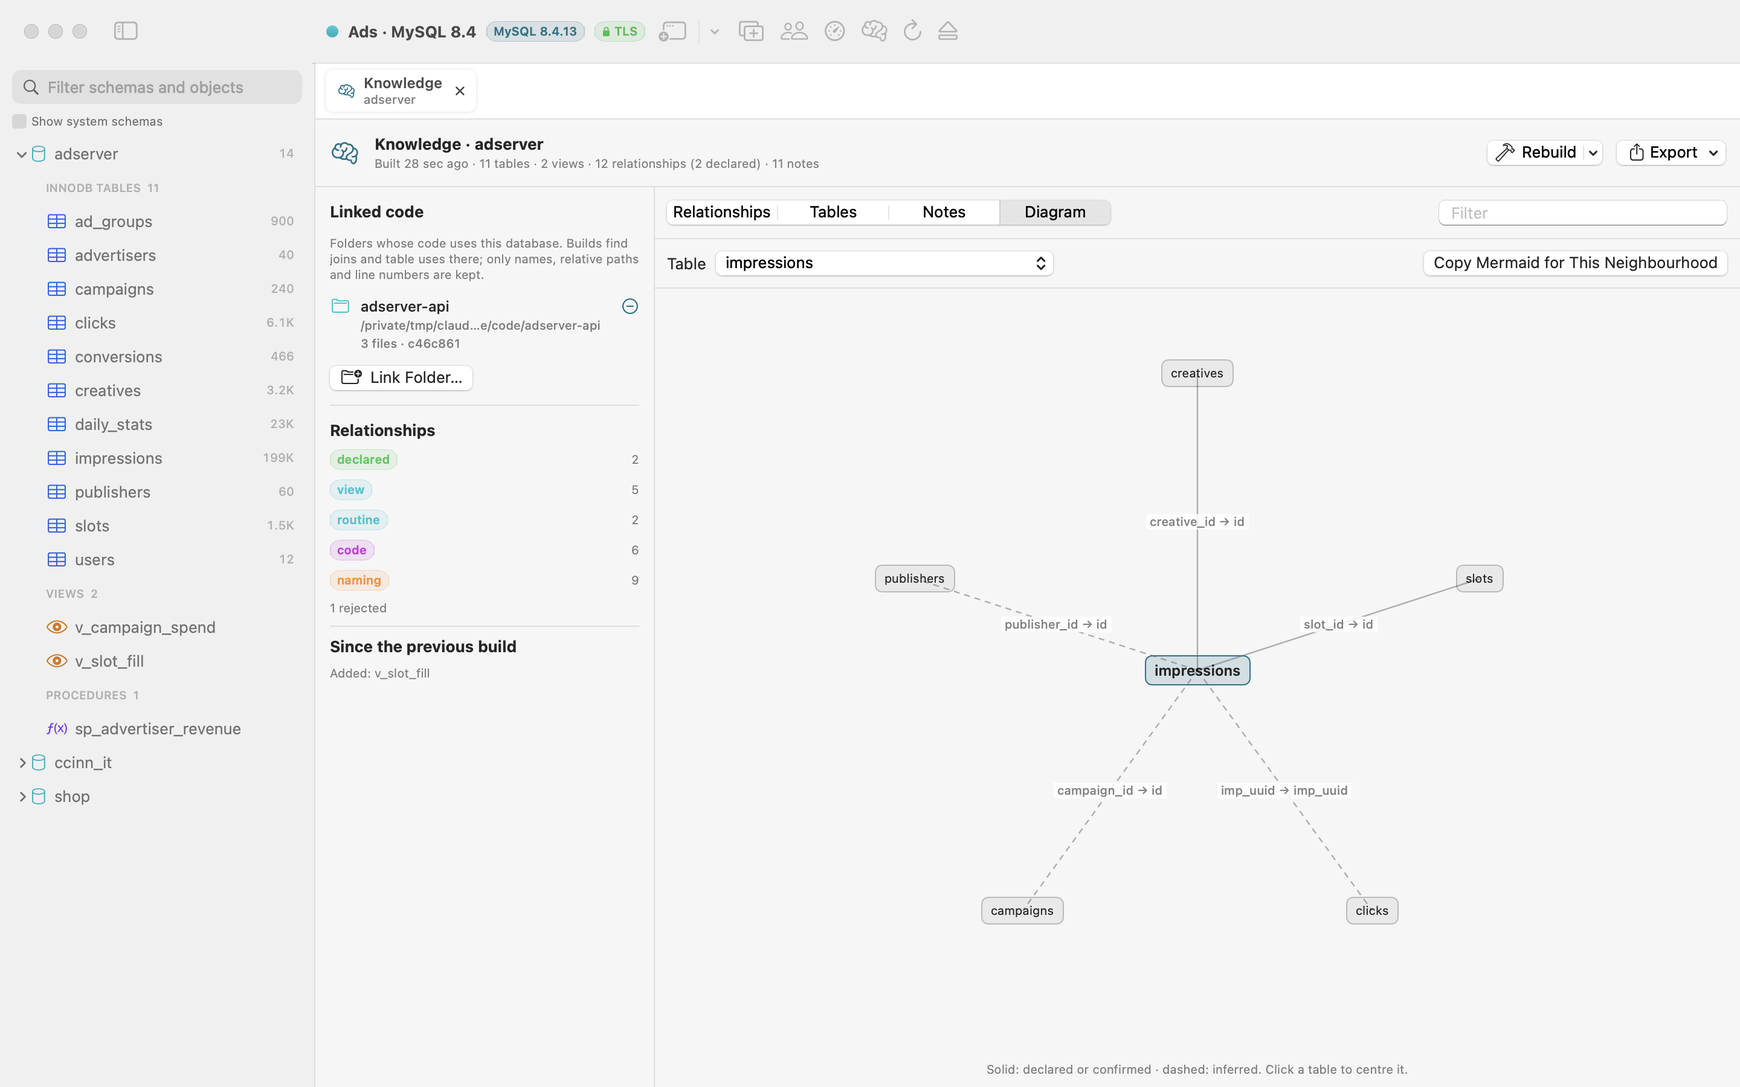
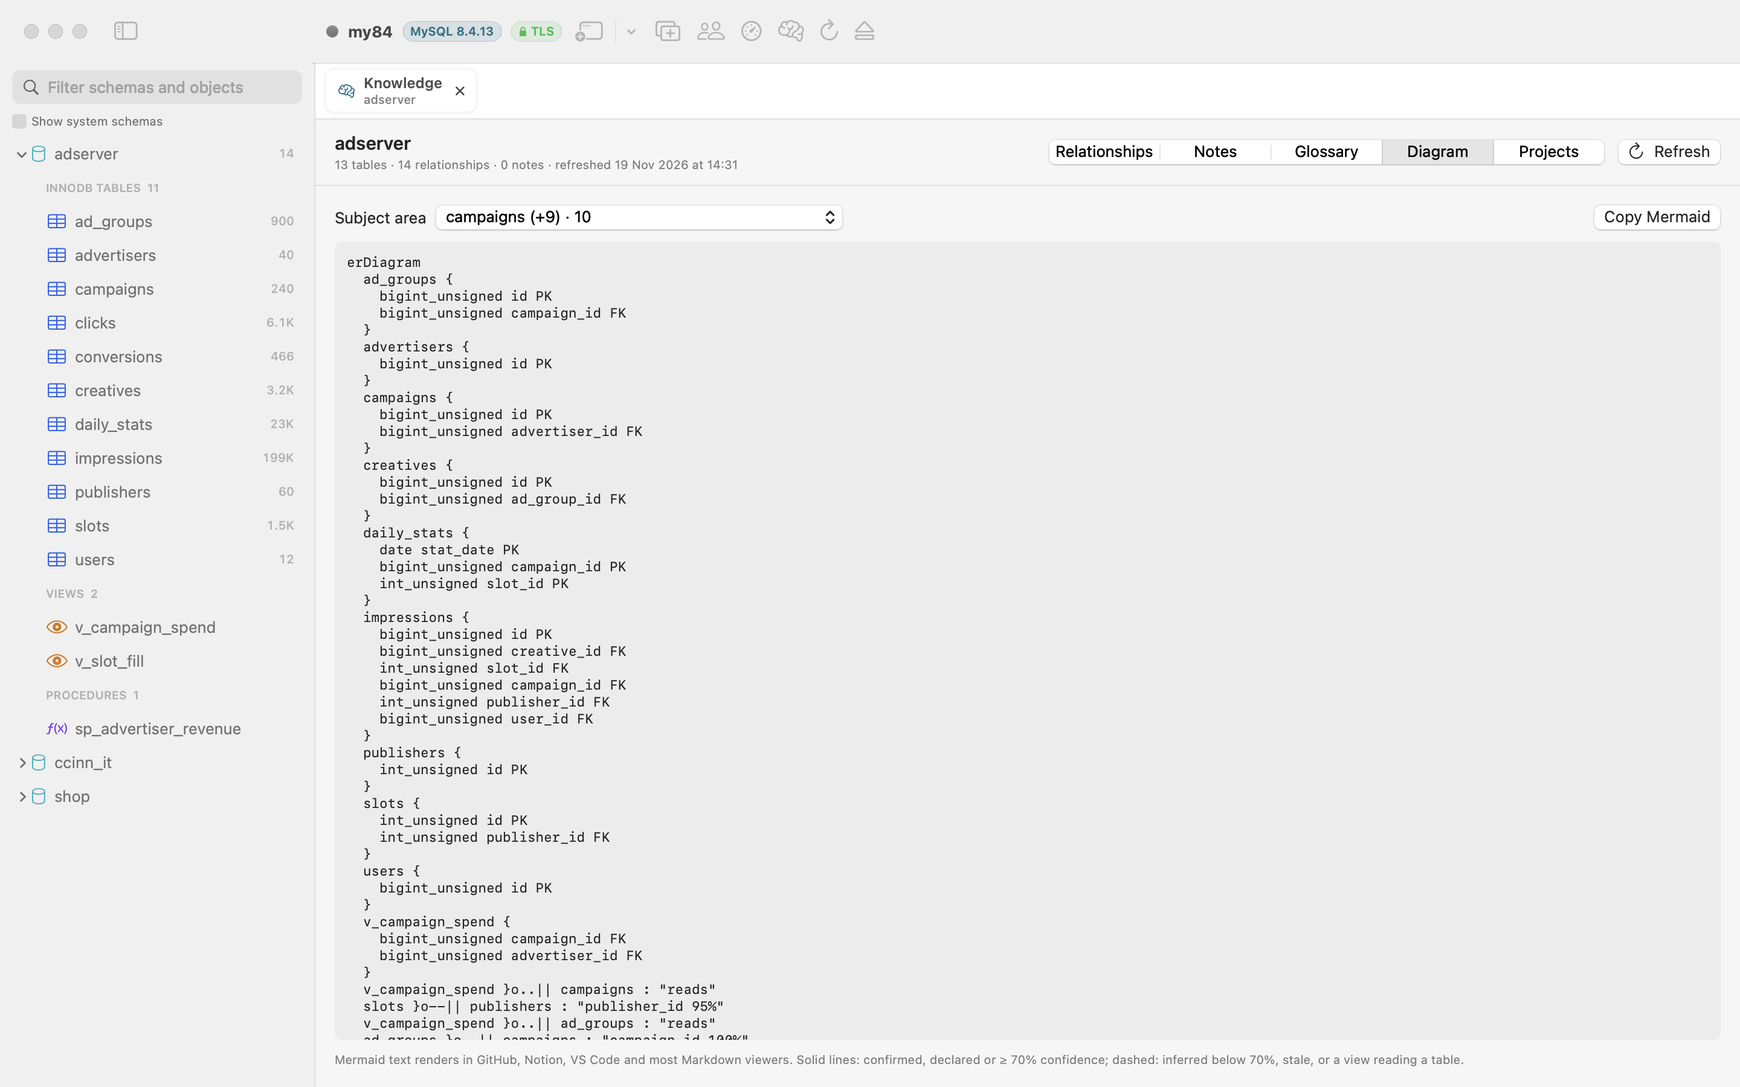
docs: knowledge base and moving to another Mac for the shared design (EN, zh-CN), new screenshots; --knowledge-section/--knowledge-filter

diff --git a/Sources/CcinnMysql/App/CcinnMysqlApp.swift b/Sources/CcinnMysql/App/CcinnMysqlApp.swift
@@ -233,7 +233,19 @@ enum LaunchArguments {
                         }
                     }
                 }
-                if let database = value("--knowledge") { workspace.openKnowledge(database: database) }
+                if let database = value("--knowledge") {
+                    workspace.openKnowledge(database: database)
+                    if case let .knowledge(model)? = workspace.selectedTab?.kind {
+                        if let raw = value("--knowledge-section"),
+                           let section = KnowledgeTabModel.Section.allCases.first(where: { $0.rawValue.lowercased().hasPrefix(raw.lowercased()) }) {
+                            model.section = section
+                        }
+                        if let raw = value("--knowledge-filter"),
+                           let filter = KnowledgeTabModel.RelationshipFilter.allCases.first(where: { $0.rawValue.lowercased().hasPrefix(raw.lowercased()) }) {
+                            model.filter = filter
+                        }
+                    }
+                }
                 if let raw = value("--server"),
                    let section = ServerModel.Section.allCases.first(where: { $0.rawValue.lowercased().replacingOccurrences(of: " ", with: "").hasPrefix(raw.lowercased()) }) {
                     workspace.openServer(section: section)

diff --git a/README.md b/README.md
@@ -39,7 +39,7 @@ Most MySQL GUIs stop at a table list and a query box. The questions that matter 
 
 CcinnMysql puts those answers one click away, in a native SwiftUI/AppKit app with its own pure-Swift MySQL protocol client — TLS, `caching_sha2_password`, MariaDB `ed25519` and all. No Electron, no JDBC, no bundled runtime, no telemetry.
 
-AI assistants face the same questions with less context: every session rediscovers the schema and guesses how the tables join. CcinnMysql's [knowledge base](#knowledge-base-teach-ai-your-schema) remembers that per database — from foreign keys, naming conventions, view and routine definitions and the code that uses the database — so Claude Code, Codex or Cursor start from the right joins.
+AI assistants face the same questions with less context: every session rediscovers the schema and guesses how the tables join. CcinnMysql's [knowledge base](#knowledge-base-teach-ai-your-schema) remembers that per database — from foreign keys, view and routine definitions, query history, the code that uses the database and naming conventions — so Claude Code, Codex or Cursor start from the right joins.
 
 ## Features
 
@@ -58,8 +58,8 @@ AI assistants face the same questions with less context: every session rediscove
 - **Connections** — Keychain secrets, TLS modes (disabled, preferred, required, verify CA, verify identity) with custom CA and client certificates, SSH tunnels through the system OpenSSH client (never using or becoming a shared `ControlMaster` from your `~/.ssh/config`), per-connection confirmation of writes.
 - **Multiple windows** — every window has its own connection, so you can put different servers side by side or keep two views of the same one. File ▸ New CcinnMysql Window (⌘N) opens the connection screen; **New Window with This Connection** (⇧⌘N, or the toolbar's New Window button) opens the current server again with the password already in use, even for unsaved connections and passwords not in the Keychain; saved connections have **Open in New Window**. Closing a window disconnects only that window.
 - **MCP server** — let Claude Code, Codex, Claude Desktop or Cursor query the connections you allow, read-only by default.
-- **Move to another Mac** — export connections (passwords optional, encrypted), knowledge bases and linked folders to one file and import it on the new Mac; paths follow your home folder.
-- **Knowledge base** — per database, maps how the tables relate. It uses declared foreign keys, naming conventions, the joins in view and routine definitions, and the joins in the code folders you link. AI assistants then find tables, join paths and ER diagrams in it without exploring table by table, and record what they verify, with evidence, for later sessions.
+- **Move to another Mac** — File ▸ Export Settings and Knowledge… writes one file with your connections, the knowledge base and its linked projects, settings and, if you like, query history; passwords only when you seal them with a passphrase. Import shows what will change before anything is written, and can be undone.
+- **Knowledge base** — per database, maps how the tables relate: declared foreign keys, the joins in view, routine, trigger and event definitions, your query history, the code folders you link, and naming. AI assistants find tables, join paths and ER diagrams in it without exploring table by table, and record what they verify, with evidence, for later sessions.
 
 ## Compatibility
 
@@ -92,8 +92,8 @@ TLS is negotiated on the same socket after the server greeting (`SSLRequest`), l
 | ![Server](docs/screenshots/server-overview-mysql84.png) | ![Replication](docs/screenshots/replication-mysql84.png) |
 | **Charts from a query (MariaDB)** | **Connection with TLS options** |
 | ![Chart](docs/screenshots/chart-mariadb114.png) | ![Connection](docs/screenshots/connection-tls.png) |
-| **Knowledge base: a table's AI notes, joins and uses in code** | **Knowledge base: a table's neighbourhood** |
-| ![Knowledge base table](docs/screenshots/knowledge-table-mysql84.png) | ![Knowledge base diagram](docs/screenshots/knowledge-diagram-mysql84.png) |
+| **Knowledge base: relationships with their evidence and confidence** | **Knowledge base: a subject area as a Mermaid ER diagram** |
+| ![Knowledge base relationships](docs/screenshots/knowledge-relationships-mysql84.png) | ![Knowledge base diagram](docs/screenshots/knowledge-diagram-mysql84.png) |
 
 ## Installation
 
@@ -170,7 +170,8 @@ CcinnMysql has a built-in **Model Context Protocol** server. AI assistants such 
 | Schema | `list_databases`, `list_tables`, `describe_table`, `get_indexes` |
 | Diagnostics | `get_processlist`, `get_innodb_status`, `get_top_statements`, `get_replication_status` |
 | SQL | `run_query`, `explain_query`, and `execute_statement` (read & write connections only) |
-| Knowledge | `knowledge_status`, `knowledge_build`, `knowledge_search`, `knowledge_context`, `knowledge_join_path`, `knowledge_erd`, `knowledge_annotate` (see [Knowledge base](#knowledge-base-teach-ai-your-schema)) |
+| Knowledge (read) | `list_knowledge`, `knowledge_overview`, `search_knowledge`, `explain_table`, `find_join_path`, `er_diagram`, `refresh_knowledge` (see [Knowledge base](#knowledge-base-teach-ai-your-schema)) |
+| Knowledge (write) | `link_project`, `add_notes`, `add_relationships`, `define_terms`, `define_subject_area`, `remove_knowledge` |
 
 **Safety**
 
@@ -203,64 +204,61 @@ Two environment variables exist **for the integration tests only** and are not m
 
 ## Knowledge base: teach AI your schema
 
-Every new AI session otherwise rediscovers a database from scratch: it describes table after table, then guesses how they join. Most production schemas declare few foreign keys, so the guesses are often wrong, and whatever one session learns is lost. The knowledge base keeps that knowledge per database, on your Mac, and serves it to AI assistants through the MCP server.
+Every new AI session otherwise rediscovers a database from scratch: it describes table after table, then guesses how they join. Most production schemas declare few foreign keys, so the guesses are often wrong, and whatever one session learns is lost. The knowledge base keeps that knowledge per database, on your Mac, and every AI session reuses it through the MCP server.
 
-**Facts and judgements are kept apart.** A build computes the facts. Facts are reproducible, cost no tokens and carry their source and confidence:
+- **No AI inside the app.** CcinnMysql reads metadata (never rows) and infers what it can; your AI client, which has the repository open, reads the code and writes back what it learns through the knowledge tools.
+- **One knowledge base per database**, keyed by the server's endpoint (through the SSH bastion when tunnelled), shared by every connection that reaches the server, and linked to any number of local projects. A session started in a linked project finds it with `list_knowledge`.
+- **Relationships carry their evidence**, and confidence (0–100) is computed from it:
 
-| Source | What it finds | Confidence |
-|---|---|---|
-| `declared` | Foreign keys | 1.0 |
-| `view`, `routine` | `JOIN … ON` / `USING` / comma-join equalities in view, procedure, function, trigger and event definitions | 0.9 |
-| `code` | The same in the source files of the folders you link (Go, Java, MyBatis XML, Python, TypeScript, `.sql`, …), with file and line | 0.9 |
-| `naming` | `user_id` → `users.id`, `userId`, shared prefixes (`shop_orders.customer_id` → `shop_customers`), plurals, `parent_id` self references, keys named like the column (`dsp_id`); type-checked, polymorphic `*_id` + `*_type` pairs skipped | ≤ 0.85 |
+  | Source | What it finds | Confidence |
+  |---|---|---|
+  | `declared` | Foreign keys (InnoDB enforces them) | 100: a fact |
+  | `definition` | `JOIN … ON` / `USING` / comma-join equalities in view, procedure, function, trigger and event definitions | 85 |
+  | `history` | The same in the editor's successful statements | 55–90, growing with distinct statements |
+  | `scan` | The same in the source files of the folders you link (Go, Java, MyBatis XML, Python, TypeScript, `.sql`, …), with file and line | 60 |
+  | `code` | Code an AI read and cited (path, line, symbol) | 80 each |
+  | `naming` | `user_id` → `users.id`, prefixes, plurals, `parent_id`; type-checked | 30–70 |
 
-Judgements come from AI assistants (`ai`) or from you (`user`). They are table purposes, column notes with value meanings (`status 3 = paused`), glossary terms with a read-only SQL recipe, relationships the build cannot see, and verdicts that confirm or reject inferred ones. Each records who wrote it and when. An added relationship needs evidence: a file in a linked project, or the query that verified it. A rejected relationship is never used for join paths, also after rebuilds. An AI cannot change or delete what you wrote.
-
-**In the app.** Click **Knowledge** in the toolbar, or right-click a database → **Knowledge Base**:
-
-1. **Link Folder…** adds the code repositories that use the database (any number, and one repository can be linked to several databases).
-2. **Build** reads metadata only (no rows), finds relationships and scans the linked folders. Rebuilding keeps every note and verdict, reports added, removed and changed tables, and flags notes whose table or column disappeared. **Rebuild Schema Only** skips the code scan.
-3. **Relationships**, **Tables**, **Notes** and **Diagram** show what is known:
-   - relationships with their sources and confidence, plus Confirm / Reject in the context menu and the evidence with **Reveal** in Finder;
-   - for each table, its purpose, columns with meanings, relationships and the code that uses it;
-   - a neighbourhood diagram.
-4. **Export** → **Copy Mermaid ER Diagram**, or **Export Markdown…**. The Markdown is a file you can commit next to the code, so teammates, and AI tools without MCP, read the same knowledge. It contains no host, user or local paths.
-
-**For AI assistants.** The MCP server's instructions tell them to call `knowledge_status` first. They then use these tools, all offline (no queries):
-- `knowledge_search` finds the tables for a question by names, comments, notes, value meanings and glossary (English or CJK).
-- `knowledge_context` gives columns, notes, relationships with join conditions, and code locations.
-- `knowledge_join_path` gives the most reliable path between two tables as ready-to-use `FROM … JOIN … ON`.
-- `knowledge_erd` returns a Mermaid `erDiagram` of a neighbourhood.
-
-`knowledge_build` creates or refreshes a knowledge base (metadata only, with the same account checks as the other tools). `knowledge_annotate` records what the AI verified. Ask, for example:
-
-- *"Which tables do I need for daily revenue per advertiser, and how do they join?"*
-- *"Draw the ER diagram around `orders`."*
-- *"Check whether `impressions.slot_id` really references `slots.id` and record the result."*
+  Several sources combine; only declared foreign keys and what you confirmed are facts, everything else is labelled *inferred*. Your Confirm or Reject in the app always wins, and an AI can never change or remove what you wrote, confirmed or rejected.
+- **Freshness.** Each table's structure has a fingerprint. When a table changes, notes and relationships written against it are marked stale until someone confirms them again; dropped tables are kept until you prune them.
+- **Answers, not just pictures.** `find_join_path` returns the join chain with its `ON` conditions, a SQL skeleton and a warning when rows would multiply. `explain_table` adds notes, glossary terms, code that uses the table and hints such as its primary key. `er_diagram` draws a Mermaid diagram of one subject area, a list of tables, the tables around one, or a prefix.
+- **In the app.** Click **Knowledge** in the toolbar, or right-click a database → **Knowledge Base**: refresh, review inferred relationships (Confirm / Reject), notes and glossary, the diagram of a subject area (**Copy Mermaid**), and linked projects (**Link Project…**, Remap, Unlink).
+- **For AI assistants.** The MCP server's instructions tell them to call `list_knowledge` with their working directory first, then `knowledge_overview`, `search_knowledge`, `explain_table` and `find_join_path`; knowledge is built on first use. The prompts `build_knowledge` (analyse this project and a database, and record what it finds) and `answer_with_knowledge` (look things up before writing SQL) guide them; Claude Code offers them as `/mcp__ccinnmysql__build_knowledge`. Ask, for example:
+  - *"Which tables do I need for daily revenue per advertiser, and how do they join?"*
+  - *"Draw the ER diagram around `orders`."*
+  - *"Check whether `impressions.slot_id` really references `slots.id` and record the result."*
 
 **Storage and privacy.**
-- Knowledge bases are kept in `~/Library/Application Support/CcinnMysql/Knowledge/<connection>/<database>.json`: owner-only (0600 files in a 0700 folder), one file per database, readable by the app and every MCP process. They hold metadata and annotations, never row data.
+- Files live in `~/Library/Application Support/CcinnMysql/Knowledge/` (owner-only); the app and every `mcp` process share them safely. They hold structure, relationships with evidence (paths, lines, symbols, SQL digests with literals replaced) and notes, never row data.
 - From code, only table and column names, relative paths and line numbers are kept, never code text.
-- Only folders you link in the app are scanned. AI assistants cannot add folders. Symbolic links, hidden folders, dependency and build folders (`node_modules`, `vendor`, `target`, …), binary files and files over 1 MB are skipped, and a build stops at 20,000 files or 256 MB and says so.
-- Several AI clients and the app can update the same knowledge base at once. Writes are serialized per file, and a file that cannot be read, or that a newer version wrote, is never overwritten (**Reset…** in the app moves it aside).
-- Knowledge belongs to a saved connection: save a quick connection to keep its knowledge, and AI assistants only see connections enabled for AI access.
+- **Only folders you link in the app are scanned.** A project an AI links (`link_project`) helps later sessions find the knowledge, but the app never reads its code. Symbolic links, hidden folders, dependency and build folders (`node_modules`, `vendor`, `target`, …), binary files and files over 1 MB are skipped, and a scan stops at 20,000 files or 256 MB.
+- Knowledge follows the account: an AI sees knowledge only for connections with AI access, and only the databases and tables that connection's account can see, even when the knowledge was built through a more privileged connection. The server's own databases (`mysql`, `information_schema`, `performance_schema`, `sys`) never have knowledge.
+- AI writes only local knowledge files, never the server, so it is allowed on read-only connections; turn it off per connection with **Settings → MCP → AI may write knowledge**, or for the whole server with `--no-knowledge-writes`.
+
+**Coming from 1.5.** Knowledge bases from CcinnMysql 1.5 are not read; refresh to rebuild the facts, and ask your AI to run the `build_knowledge` prompt to record notes again. 1.5 backup files still import (see below).
 
 ## Moving to another Mac
 
-**File ▸ Export Connections & Knowledge…** (or **Settings → Backup**) writes one `.ccinnmysql-backup` file, readable only by you. It contains your saved connections with every setting, and optionally:
+**File ▸ Export Settings and Knowledge…** (also in **Settings → General → Backup**) writes a single `.ccinnmysql-backup` file, readable only by you:
 
-- the knowledge bases of those connections, with relationships, notes and linked folders;
-- their passwords, SSH secrets and client-certificate passphrases, encrypted with a passphrase you choose (PBKDF2-HMAC-SHA256 with 600,000 iterations, then AES-256-GCM). Without a passphrase the file contains no secrets.
+| Part | Included | Notes |
+|---|---|---|
+| Connections | always | host, port, user, default database, TLS settings and certificate paths, SSH route, AI access; never SSH keys or certificate files |
+| Knowledge and linked projects | on | relationships, notes, glossary, subject areas; paths under your home are written `~/…` |
+| App settings | on | appearance, automatic `LIMIT`, SQL formatting, update checks; never window positions |
+| Query history | off | statements with passwords removed; they may still contain table names and literal values |
+| Passwords, SSH secrets, client-certificate passphrases | off | only with a passphrase (at least 12 characters, entered twice) |
 
-Query history and row data are never included.
+**Passwords** are encrypted with AES-256-GCM under a key derived from your passphrase (PBKDF2-HMAC-SHA256, 600,000 iterations), and the passphrase also authenticates the whole file. It is never stored: lose it and the passwords cannot be recovered, but everything else still imports.
 
-On the new Mac, **File ▸ Import Connections & Knowledge…** merges the backup into what is there:
-- New connections are added. Existing ones are kept unless you choose to replace them.
-- Passwords are restored into the Keychain with the right passphrase. A wrong passphrase changes nothing, and you can also import without passwords.
-- Knowledge bases are merged: the newer note wins, your own notes never give way to an AI's, linked folders are added, and the more recent build's schema facts are kept.
-- Paths under your old home folder (linked folders, certificate and key files) are moved to the new home folder when they exist there. The summary lists the rest, and a missing linked folder gets **Locate…** in the Knowledge tab, which keeps its name and the evidence that cites it.
+On the other Mac, **File ▸ Import Settings and Knowledge…** opens the file, asks for the passphrase (or imports without passwords), and shows a preview before writing anything:
 
-The import neither connects to servers nor scans code.
+- **Connections**: new, unchanged, or different from the one here. For a difference choose *Keep mine*, *Use imported* or *Keep both*; the newer edit is suggested. Changes that weaken security are highlighted (another server or SSH route, weaker TLS, other certificate or key files, more AI access, clear-text passwords, no confirmation before changes, the privileged-account opt-in), and from a file without a passphrase, which anyone could have written, they keep your current setting unless you choose otherwise. AI access with a privileged account is only ever taken from a passphrase-verified file.
+- **Knowledge** merges item by item: nothing here is lost, deletions recorded in the backup are applied, and the newer copy of a note or term wins.
+- **Projects** that are not on this Mac are marked. Point one at a folder, or move them all at once (`/Volumes/Work/code` → `~/code`).
+- **Settings** show old → new, each one optional; **history** shows how many statements each connection gains.
+
+Importing first saves your current setup (without passwords) to `Backups/` in the app's data folder, keeping the last five. The report offers **Restore Pre-Import Snapshot**, which undoes exactly what the import wrote: connections it added or replaced, the passwords it added, knowledge, history entries and settings. Connections you add or change and queries you run afterwards are kept. A password the import replaced cannot be put back; if its connection goes back to another server, the imported password is removed rather than sent there, and you enter it again. Importing the same file again changes nothing, and backups made by CcinnMysql 1.5 import the same way. After an import that changed connections, restart the MCP server in your AI clients (`/mcp` in Claude Code) so they see them.
 
 ## Building from source
 
@@ -292,8 +290,8 @@ scripts/it-down.sh
 CcinnMysql (SwiftUI / AppKit app, also hosts `CcinnMysql mcp`)
  └─ CcinnMysqlKit   profiles & Keychain, SQL lexer/splitter/auto-limit, error diagnostics, read-only guard, redaction,
                     completion, charts, export, history, EXPLAIN parsers, table insights, row editing, MCP server & tools,
-                    knowledge base (snapshot, naming inference, SQL join extraction, code scan, graph, ERD, locked store),
-                    backup & migration (passphrase-encrypted secrets, path remapping, merging import)
+                    knowledge base (extraction, evidence-based inference, join paths, ER diagrams, code scan, locked store),
+                    settings & knowledge backup (passphrase-sealed secrets, import preview, undo)
      └─ MySQLKit    transport with in-place TLS upgrade, connection actor, pool, sessions, pinned KILL,
                     SSH tunnels, flavor/version detection, metadata and operations
          └─ MySQLWire   packet framing, handshake, SSLRequest, auth plugins (native, caching_sha2, sha256,
